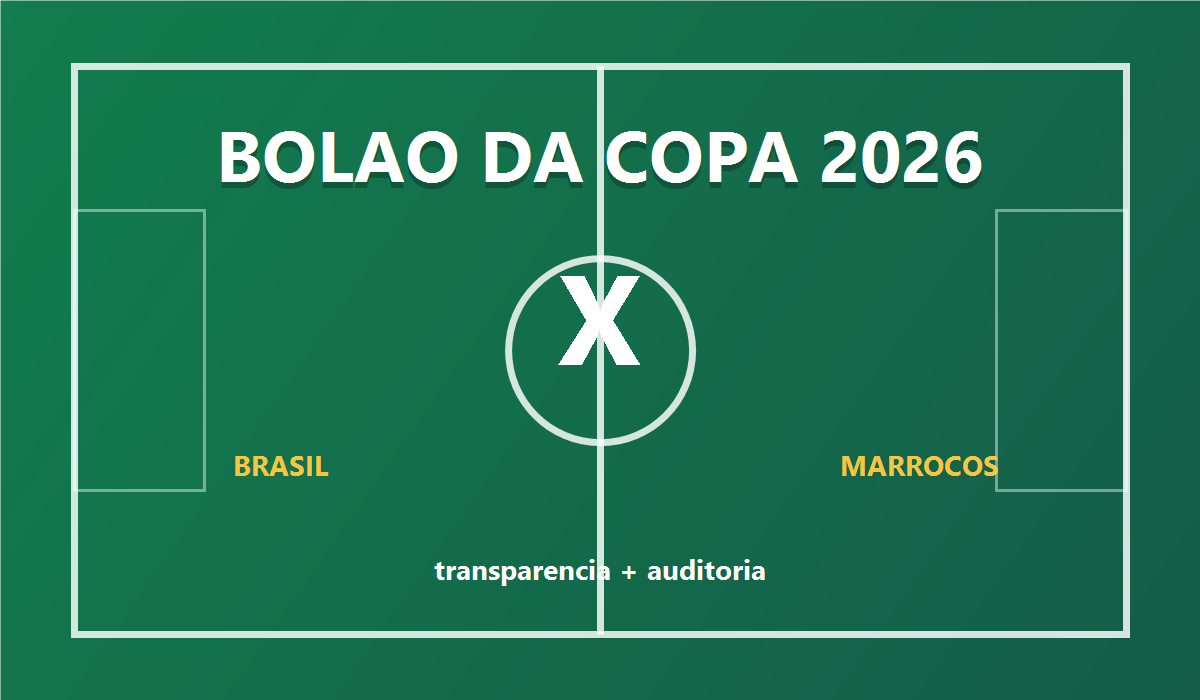
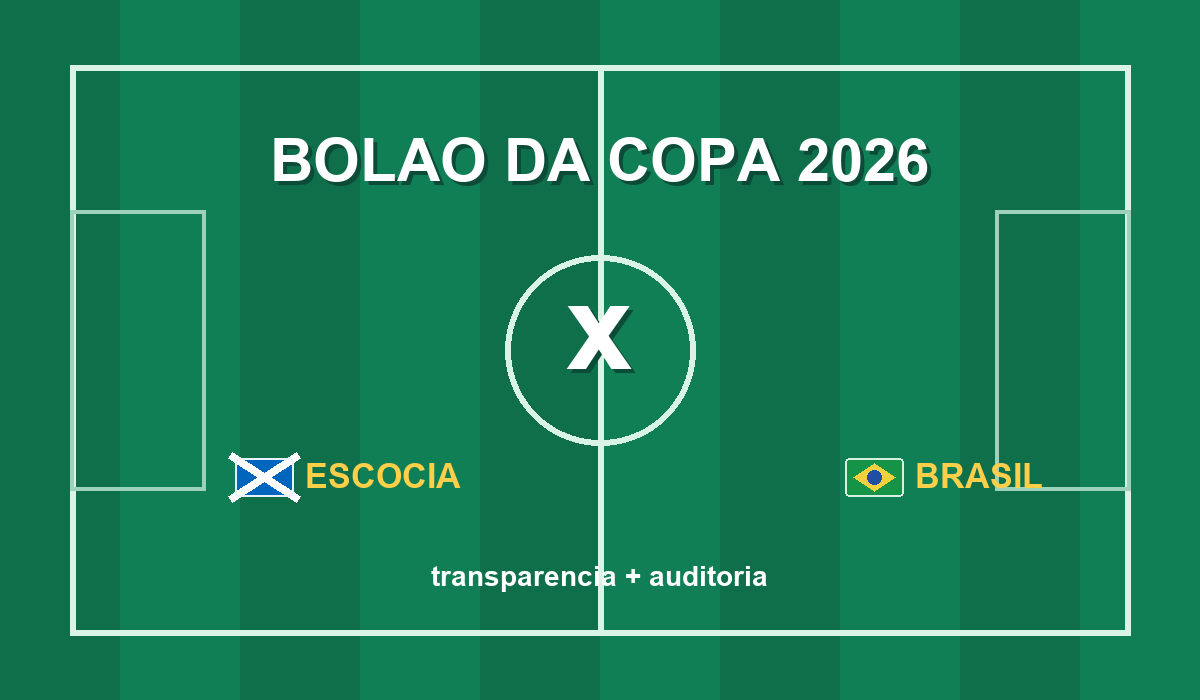
feat: atualizar valor do palpite para 5 reais

diff --git a/src/app/globals.css b/src/app/globals.css
@@ -253,11 +253,87 @@ input:disabled {
   position: relative;
 }
 
-.match-art img {
-  display: block;
+.pitch-panel {
+  align-content: space-between;
+  background:
+    radial-gradient(circle at 50% 50%, rgba(255, 255, 255, 0.16) 0 54px, transparent 56px),
+    linear-gradient(90deg, rgba(255, 255, 255, 0.45) 0 2px, transparent 2px),
+    repeating-linear-gradient(90deg, #0f6f4b 0 84px, #117f55 84px 168px);
+  background-position: center, center, center;
+  border-left: 4px solid rgba(255, 255, 255, 0.86);
+  color: #fff;
+  display: grid;
+  gap: 18px;
   height: 100%;
-  object-fit: cover;
-  width: 100%;
+  min-height: 260px;
+  overflow: hidden;
+  padding: 28px 30px;
+  position: relative;
+}
+
+.pitch-panel::before,
+.pitch-panel::after {
+  border: 4px solid rgba(255, 255, 255, 0.82);
+  content: "";
+  left: 0;
+  position: absolute;
+  right: 0;
+}
+
+.pitch-panel::before {
+  top: 0;
+}
+
+.pitch-panel::after {
+  bottom: 0;
+}
+
+.pitch-team {
+  align-items: center;
+  display: inline-flex;
+  font-size: clamp(1.35rem, 2.2vw, 2rem);
+  font-weight: 900;
+  gap: 10px;
+  justify-self: start;
+  line-height: 1;
+  max-width: 100%;
+  min-width: 0;
+  text-shadow: 0 2px 16px rgba(0, 0, 0, 0.2);
+}
+
+.pitch-team-away {
+  justify-self: end;
+}
+
+.pitch-team .mini-flag {
+  height: 24px;
+  width: 36px;
+}
+
+.pitch-team span:last-child {
+  overflow-wrap: anywhere;
+}
+
+.pitch-center-mark {
+  align-items: center;
+  border: 4px solid rgba(255, 255, 255, 0.86);
+  border-radius: 999px;
+  display: inline-flex;
+  font-size: 4.2rem;
+  font-weight: 900;
+  height: 104px;
+  justify-content: center;
+  justify-self: center;
+  line-height: 1;
+  width: 104px;
+}
+
+.pitch-caption {
+  align-self: end;
+  font-size: 1rem;
+  font-weight: 800;
+  justify-self: center;
+  text-align: center;
 }
 
 .match-art::after {

diff --git a/src/features/bolao/domain/rules.test.ts b/src/features/bolao/domain/rules.test.ts
@@ -15,9 +15,9 @@ describe("bolao rules", () => {
 
     expect(ledger.paidGuesses).toHaveLength(3);
     expect(ledger.pendingGuesses).toHaveLength(5);
-    expect(ledger.grossCents).toBe(3000);
-    expect(ledger.organizerFeeCents).toBe(600);
-    expect(ledger.prizePoolCents).toBe(2400);
+    expect(ledger.grossCents).toBe(1500);
+    expect(ledger.organizerFeeCents).toBe(300);
+    expect(ledger.prizePoolCents).toBe(1200);
   });
 
   it("rejects more than two draw guesses for the same participant", () => {
@@ -73,7 +73,7 @@ describe("bolao rules", () => {
 
     expect(distribution).toHaveLength(1);
     expect(distribution[0].guess.participantName).toBe("Ozeas");
-    expect(distribution[0].amountCents).toBe(2400);
+    expect(distribution[0].amountCents).toBe(1200);
   });
 
   it("locks new guesses after the match deadline", () => {
@@ -120,11 +120,11 @@ describe("bolao rules", () => {
       const outcome = calculatePrizeOutcome(pool);
       expect(outcome.scenario).toBe("awaiting_result");
       expect(outcome.winners).toHaveLength(0);
-      expect(outcome.grossCents).toBe(3000); // 3 paid guesses * 1000
-      expect(outcome.organizerCommissionCents).toBe(600); // 20% fee
-      expect(outcome.prizePoolCents).toBe(2400);
+      expect(outcome.grossCents).toBe(1500); // 3 paid guesses * 500
+      expect(outcome.organizerCommissionCents).toBe(300); // 20% fee
+      expect(outcome.prizePoolCents).toBe(1200);
       expect(outcome.unclaimedPrizeCents).toBe(0);
-      expect(outcome.organizerTotalCents).toBe(600);
+      expect(outcome.organizerTotalCents).toBe(300);
     });
 
     it("returns no_paid_guesses if there are no paid guesses in the pool", () => {
@@ -147,11 +147,11 @@ describe("bolao rules", () => {
       const outcome = calculatePrizeOutcome(pool);
       expect(outcome.scenario).toBe("no_winners");
       expect(outcome.winners).toHaveLength(0);
-      expect(outcome.grossCents).toBe(3000);
-      expect(outcome.organizerCommissionCents).toBe(600);
-      expect(outcome.prizePoolCents).toBe(2400);
-      expect(outcome.unclaimedPrizeCents).toBe(2400); // Unclaimed goes to bank
-      expect(outcome.organizerTotalCents).toBe(3000); // Commission + Unclaimed
+      expect(outcome.grossCents).toBe(1500);
+      expect(outcome.organizerCommissionCents).toBe(300);
+      expect(outcome.prizePoolCents).toBe(1200);
+      expect(outcome.unclaimedPrizeCents).toBe(1200); // Unclaimed goes to bank
+      expect(outcome.organizerTotalCents).toBe(1500); // Commission + Unclaimed
     });
 
     it("returns winners_found when one or more paid guesses match", () => {
@@ -163,12 +163,12 @@ describe("bolao rules", () => {
       expect(outcome.scenario).toBe("winners_found");
       expect(outcome.winners).toHaveLength(1);
       expect(outcome.winners[0].guess.participantName).toBe("Ozeas");
-      expect(outcome.winners[0].amountCents).toBe(2400);
-      expect(outcome.grossCents).toBe(3000);
-      expect(outcome.organizerCommissionCents).toBe(600);
-      expect(outcome.prizePoolCents).toBe(2400);
+      expect(outcome.winners[0].amountCents).toBe(1200);
+      expect(outcome.grossCents).toBe(1500);
+      expect(outcome.organizerCommissionCents).toBe(300);
+      expect(outcome.prizePoolCents).toBe(1200);
       expect(outcome.unclaimedPrizeCents).toBe(0);
-      expect(outcome.organizerTotalCents).toBe(600);
+      expect(outcome.organizerTotalCents).toBe(300);
     });
   });
 });

diff --git a/src/features/bolao/components/PoolApps.tsx b/src/features/bolao/components/PoolApps.tsx
@@ -216,7 +216,18 @@ function MatchHero({ pool }: { pool: Pool }) {
         </div>
       </div>
       <div className="match-art" aria-hidden="true">
-        <img src="/bolao-field.png" alt="" />
+        <div className="pitch-panel">
+          <div className="pitch-team pitch-team-home">
+            <MiniFlag code={pool.match.homeFlag} label={pool.match.homeTeam} />
+            <span>{pool.match.homeTeam}</span>
+          </div>
+          <div className="pitch-center-mark">x</div>
+          <div className="pitch-team pitch-team-away">
+            <MiniFlag code={pool.match.awayFlag} label={pool.match.awayTeam} />
+            <span>{pool.match.awayTeam}</span>
+          </div>
+          <div className="pitch-caption">transparencia + auditoria</div>
+        </div>
       </div>
     </div>
   );

diff --git a/src/features/bolao/data/initialPool.ts b/src/features/bolao/data/initialPool.ts
@@ -16,7 +16,7 @@ export const initialPool: Pool = {
     venue: "Copa do Mundo da FIFA 2026"
   },
   rules: {
-    stakeCents: 1000,
+    stakeCents: 500,
     organizerFeeRate: 0.2,
     maxDrawGuessesPerParticipant: 2,
     lockAt: kickoffAt,

diff --git a/src/features/bolao/domain/architect.ts b/src/features/bolao/domain/architect.ts
@@ -25,7 +25,7 @@ export const harnessArchitecture = {
     ]
   },
   invariants: [
-    "Valor por palpite: R$ 10,00",
+    "Valor por palpite: R$ 5,00",
     "Comissao do responsavel: 20%",
     "Premio: 80% do total pago",
     "Somente palpites pagos competem"

diff --git a/memoria/endosso-2026-06-23.md b/memoria/endosso-2026-06-23.md
@@ -127,6 +127,20 @@ Aplicado:
 - Supabase `bolao_state.id = 1` reiniciado para novo estado limpo.
 - Backup local do estado remoto anterior salvo em `data/*.backup.json`.
 
+## Atualizacao posterior: valor R$ 5,00
+
+Ainda em 23/06/2026, o usuario pediu para adaptar o valor do palpite de R$ 10,00 para R$ 5,00.
+
+Aplicado:
+
+- `initialPool.rules.stakeCents` alterado para `500`.
+- Textos de README, plano, memoria e arquitetura atualizados para R$ 5,00.
+- Testes de dominio recalibrados para arrecadacao, comissao e premio com aposta de R$ 5,00.
+- Supabase `bolao_state.id = 1` atualizado para `rules.stakeCents = 500`.
+- `data/bolao-state.json` local sincronizado com o estado remoto.
+- Arte lateral do heroi trocada por campo CSS dinamico com Escocia x Brasil para remover qualquer rastro visual do confronto anterior.
+- `public/bolao-field.png` regenerado para Escocia x Brasil, pois o asset antigo ainda mencionava Brasil x Marrocos.
+
 ## Cuidados que devem permanecer
 
 - Apostador nao deve ver link para `/admin`.

diff --git a/memoria/verificacao.md b/memoria/verificacao.md
@@ -24,6 +24,20 @@ Data local da revisao: 23/06/2026.
 - Browser local validado em `/apostador`: mostra Escocia x Brasil, nao mostra Marrocos, exibe 2 mini bandeiras no titulo e nao tem overflow desktop/mobile.
 - Screenshot: `memoria/screenshot-escocia-brasil-apostador.png`.
 
+## Atualizacao Valor R$ 5,00 - 23/06/2026
+
+- Codigo e documentacao principal atualizados para R$ 5,00 por palpite.
+- `initialPool.rules.stakeCents` atualizado para `500`.
+- Supabase `bolao_state.id = 1` atualizado para `rules.stakeCents = 500`.
+- Estado local `data/bolao-state.json` sincronizado com o valor novo.
+- `GET /api/pool` local retornou `rules.stakeCents = 500`.
+- `npm run typecheck` passou.
+- `npm audit --omit=dev` retornou 0 vulnerabilidades.
+- `npm run build` passou com variaveis Supabase vazias.
+- `npm test` continua falhando sem relatorio detalhado alem do banner do Vitest.
+- Browser local validado em `/apostador`: mostra Escocia x Brasil, mostra `R$ 5,00` via formatacao `Intl.NumberFormat` com espaco nao separavel, nao mostra `R$ 10,00`, nao mostra Marrocos/MAR, sem erros de console e sem overflow desktop/mobile.
+- Screenshot: `memoria/screenshot-escocia-brasil-r5-apostador.png`.
+
 ## Comandos Historicos de 13/06/2026
 
 - `npm run typecheck` passou.

diff --git a/memoria/progresso.md b/memoria/progresso.md
@@ -64,3 +64,15 @@ MVP atualizado para admin/apostador, com hidratacao corrigida e validado em `htt
 - Mini bandeira da Escocia adicionada em CSS.
 - Supabase `bolao_state.id = 1` reiniciado para o novo jogo, com 0 palpites.
 - Backup do estado remoto anterior salvo localmente em `data/*.backup.json`.
+
+## Atualizacao de 23/06/2026 - Valor R$ 5,00
+
+- Valor do palpite alterado de R$ 10,00 para R$ 5,00.
+- Regra central atualizada em `initialPool.rules.stakeCents = 500`.
+- Testes de regra ajustados para arrecadacao, comissao de 20% e premio liquido de 80% com base em R$ 5,00.
+- Supabase `bolao_state.id = 1` atualizado com `rules.stakeCents = 500`.
+- Auditoria remota recebeu log `Valor do palpite atualizado`.
+- Verificacao final: typecheck, audit e build passaram; browser confirmou R$ 5,00 na tela do apostador.
+- Arte lateral antiga substituida por campo CSS dinamico para nao manter rastro visual de Marrocos/MAR.
+- Asset `public/bolao-field.png` regenerado para Escocia x Brasil.
+- `npm test` manteve a falha silenciosa ja registrada na revisao anterior.

diff --git a/memoria/decisoes.md b/memoria/decisoes.md
@@ -43,3 +43,9 @@ Motivo: permite restaurar o bolao para uma lista vazia sem perder a referencia h
 Decisao: se o resultado oficial for publicado e nenhum palpite pago acertar o placar exato, o premio liquido fica como acumulado para a banca/organizador.
 
 Motivo: a interface passou a explicar explicitamente o cenario sem ganhadores. Essa regra deve continuar clara para evitar duvida depois do jogo.
+
+## ADR-008 - Valor do palpite em R$ 5,00
+
+Decisao: o valor vigente do palpite para Escocia x Brasil e R$ 5,00, representado no dominio como `stakeCents = 500`.
+
+Motivo: o usuario substituiu o valor anterior de R$ 10,00. Toda regra financeira deve partir desse valor para manter transparencia entre apostador, administrador e Supabase.

diff --git a/PLAN.md b/PLAN.md
@@ -9,7 +9,7 @@ Construir um micro-SaaS para administrar o bolao Escocia x Brasil da Copa de 202
 - Jogo: Escocia x Brasil
 - Data: 24/06/2026
 - Horario do bolao: 19:00, America/Fortaleza
-- Valor por palpite: R$ 10,00
+- Valor por palpite: R$ 5,00
 - Limite: ate 2 palpites de empate por participante
 - Comissao do responsavel: 20% da arrecadacao paga
 - Premio liquido: 80% da arrecadacao paga

diff --git a/README.md b/README.md
@@ -30,7 +30,7 @@ npm run build
 
 ## Regras implementadas
 
-- R$ 10,00 por palpite.
+- R$ 5,00 por palpite.
 - Maximo de 2 empates por participante.
 - Responsavel recebe 20% do total pago.
 - Premio liquido fica em 80% do total pago.

diff --git a/memoria/README.md b/memoria/README.md
@@ -46,7 +46,7 @@ Dados originais do bolao:
 
 - Data do jogo: 24/06/2026.
 - Horario limite: 19:00, fuso `America/Fortaleza`.
-- Valor: R$ 10,00 por palpite.
+- Valor: R$ 5,00 por palpite.
 - Regra especial: cada participante so pode ter ate 2 palpites de empate.
 - Responsavel do bolao recebe 20% do total pago.
 - Premio liquido para vencedores: 80% do total pago.